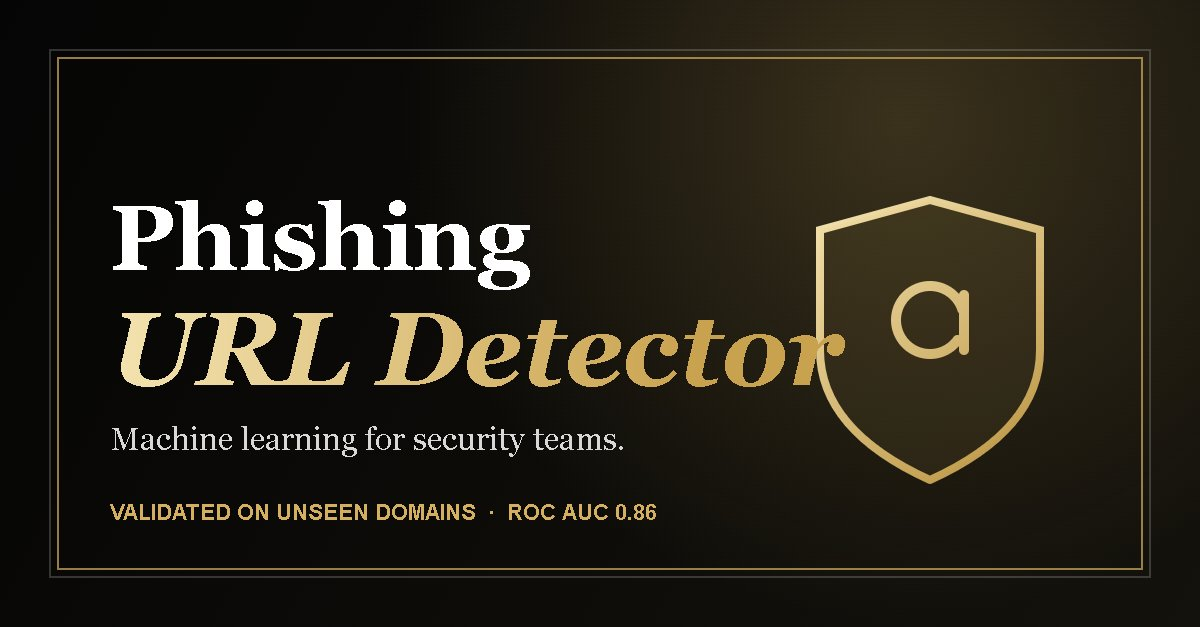
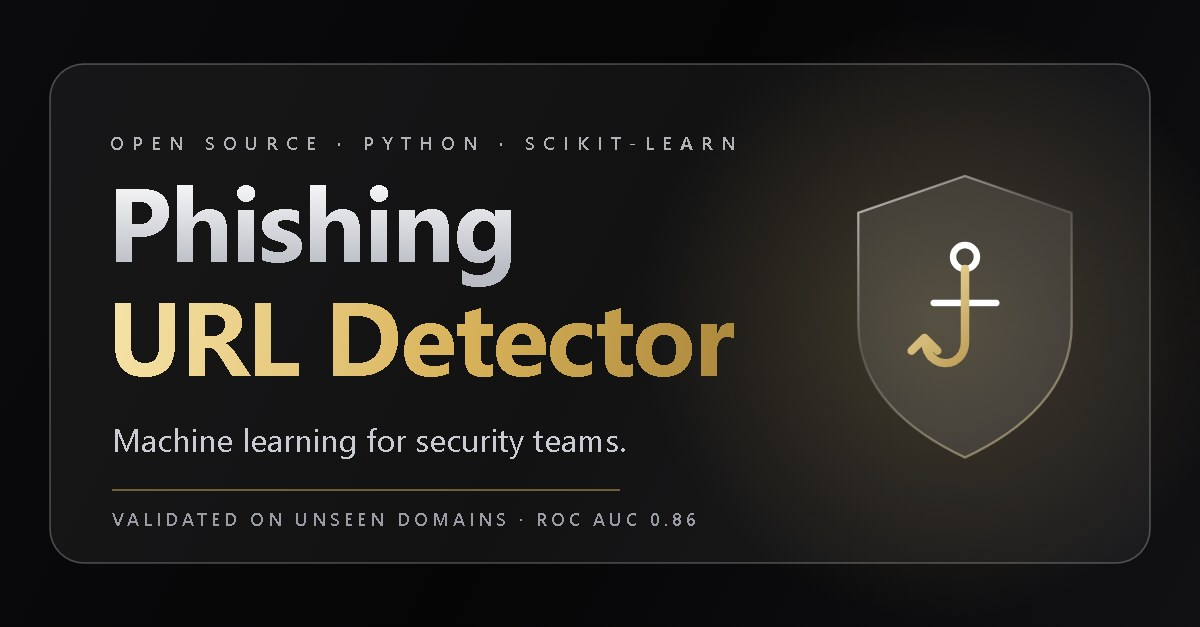
Add files via upload

diff --git a/docs/index.html b/docs/index.html
@@ -6,24 +6,23 @@
 <meta property="og:image" content="https://komarapujordanephraim-creator.github.io/phishing-url-detector/og.jpg"><meta property="og:image:width" content="1200"><meta property="og:image:height" content="627"><meta property="og:url" content="https://komarapujordanephraim-creator.github.io/phishing-url-detector/">
 <meta name="twitter:card" content="summary_large_image"><meta name="twitter:image" content="https://komarapujordanephraim-creator.github.io/phishing-url-detector/og.jpg">
 <style>
[1 lines of base64/hex data omitted]
 :root{--bg:#07070a;--tx:#eceef2;--mu:#9a9ca5;--gold:#d8b25a;--gold2:#f0d78f;--line:rgba(255,255,255,.14)}
 *{box-sizing:border-box}html{scroll-behavior:smooth}
 body{margin:0;background:radial-gradient(1000px 500px at 85% -5%,rgba(216,178,90,.13),transparent 60%),radial-gradient(900px 500px at 0% 10%,rgba(255,255,255,.07),transparent 60%),var(--bg);color:var(--tx);font:16px/1.65 -apple-system,"Segoe UI",Helvetica,Arial,sans-serif}
 .wrap{max-width:1040px;margin:0 auto;padding:0 20px}
 .glass{background:linear-gradient(135deg,rgba(255,255,255,.10),rgba(255,255,255,.03) 55%,rgba(255,255,255,.07));border:1px solid var(--line);border-radius:24px;box-shadow:inset 0 1px 0 rgba(255,255,255,.18),0 20px 60px rgba(0,0,0,.45)}
 nav{display:flex;justify-content:space-between;align-items:center;padding:22px 0}
-nav b{font:400 28px GV,cursive;color:var(--gold2);white-space:nowrap}nav a{color:var(--mu);text-decoration:none;font-size:13px;letter-spacing:.14em;text-transform:uppercase;margin-left:18px}nav a:hover{color:var(--tx)}
+nav b{font:700 22px Inter,'Segoe UI',Helvetica,Arial,sans-serif;color:var(--gold2);white-space:nowrap}nav a{color:var(--mu);text-decoration:none;font-size:13px;letter-spacing:.14em;text-transform:uppercase;margin-left:18px}nav a:hover{color:var(--tx)}
 .hero{padding:46px 40px;margin-top:6px;position:relative;overflow:hidden}
 .lab{font-size:13px;letter-spacing:.3em;text-transform:uppercase;color:var(--mu)}
-h1{margin:10px 0 4px;font:400 clamp(60px,11vw,124px)/.92 GV,cursive;background:linear-gradient(180deg,#fff,#b9bcc4);-webkit-background-clip:text;background-clip:text;color:transparent}
+h1{margin:10px 0 4px;font:800 clamp(44px,8vw,88px)/1.02 Inter,'Segoe UI',Helvetica,Arial,sans-serif;letter-spacing:-.02em;background:linear-gradient(180deg,#fff,#b9bcc4);-webkit-background-clip:text;background-clip:text;color:transparent}
 h1 span{display:block;background:linear-gradient(135deg,#f6e3a8,#d8b25a 55%,#a8843a);-webkit-background-clip:text;background-clip:text;color:transparent}
-.sub{font:italic 24px Georgia,serif;color:#c9cbd2;margin:14px 0 26px}
+.sub{font:400 20px Inter,'Segoe UI',Helvetica,Arial,sans-serif;color:#c9cbd2;margin:14px 0 26px}
 .btn{display:inline-block;padding:12px 22px;border-radius:999px;text-decoration:none;font-weight:600;font-size:15px;margin:0 10px 10px 0}
 .b1{background:linear-gradient(135deg,#f6e3a8,#d8b25a);color:#1a1405}.b2{border:1px solid var(--line);color:var(--tx)}
 .stats{display:grid;grid-template-columns:repeat(auto-fit,minmax(200px,1fr));gap:14px;margin:26px 0}
-.stat{padding:20px 22px}.stat b{display:block;font:400 44px/1 GV,cursive;color:var(--gold2)}.stat span{color:var(--mu);font-size:14px}
-section{margin:56px 0}h2{font:400 46px/1.1 GV,cursive;margin:0 0 14px;color:var(--gold2)}
+.stat{padding:20px 22px}.stat b{display:block;font:700 40px/1 Inter,'Segoe UI',Helvetica,Arial,sans-serif;color:var(--gold2)}.stat span{color:var(--mu);font-size:14px}
+section{margin:56px 0}h2{font:700 34px/1.15 Inter,'Segoe UI',Helvetica,Arial,sans-serif;margin:0 0 14px;color:var(--gold2)}
 p{color:#c3c6ce;max-width:760px}.card{padding:26px 28px}
 table{width:100%;border-collapse:collapse;font-size:15px}th,td{text-align:left;padding:12px 10px;border-bottom:1px solid var(--line)}th{color:var(--mu);font-weight:600;font-size:12px;letter-spacing:.14em;text-transform:uppercase}
 .bar{position:relative;height:26px;min-width:150px;border-radius:8px;background:rgba(255,255,255,.06);overflow:hidden}.bar i{position:absolute;inset:0 auto 0 0;background:linear-gradient(90deg,rgba(255,255,255,.35),rgba(216,178,90,.75))}.bar b{position:relative;padding-left:10px;line-height:26px;font-size:14px}
